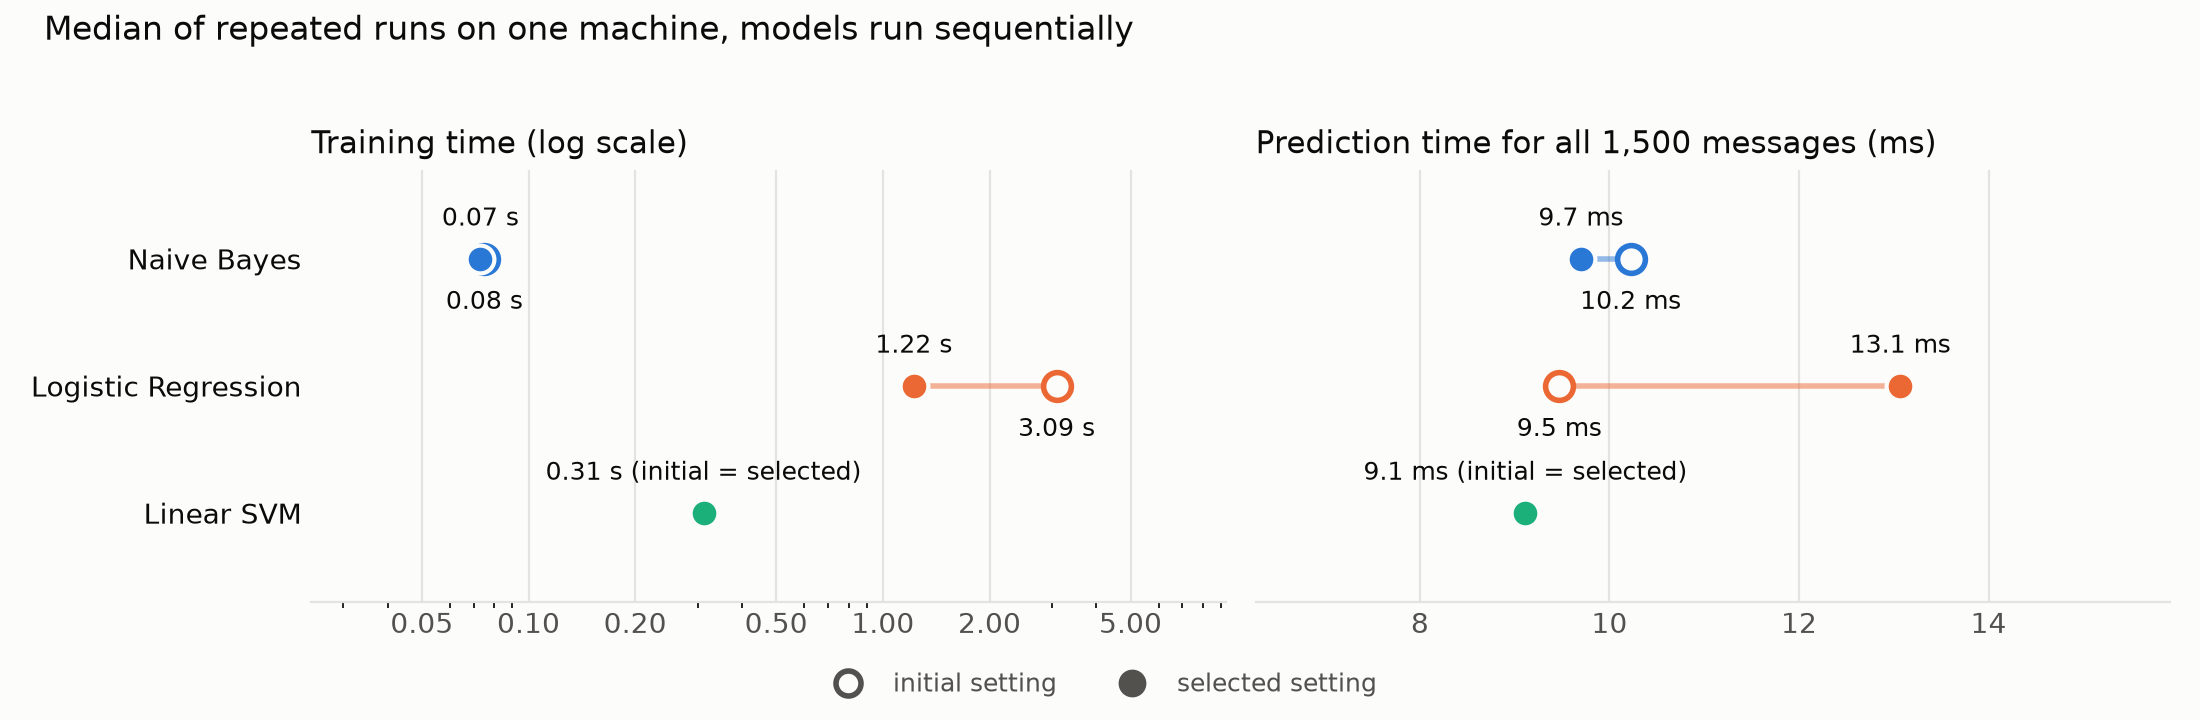
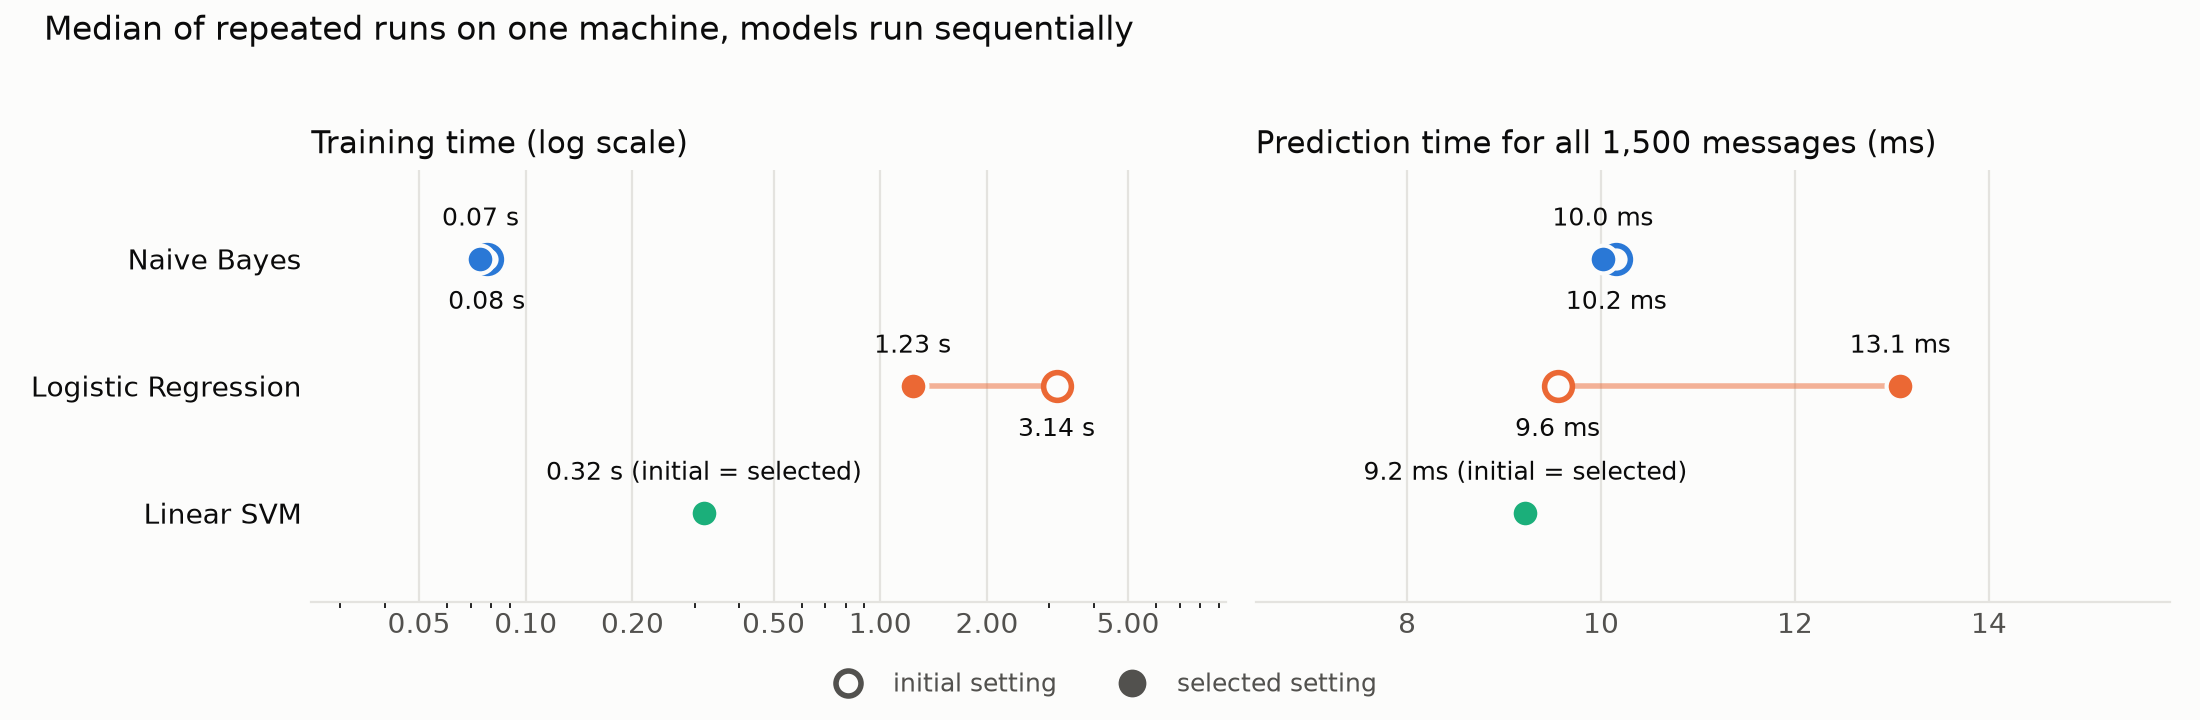
Regenerate comparison report and update contribution file

diff --git a/results/MODEL_COMPARISON.md b/results/MODEL_COMPARISON.md
@@ -5,15 +5,25 @@ and run on the validation split only. The official test set was not evaluated.
[1 lines of base64/hex data omitted]
 Training rows: 8499, validation rows: 1500.
 
+## Models
+
+| Model | Implementation | Learned from |
+| --- | --- | --- |
+| Naive Bayes | TF-IDF + MultinomialNB (scikit-learn) | our training split, no pretrained weights |
+| Logistic Regression | TF-IDF + LogisticRegression (scikit-learn) | our training split, no pretrained weights |
+| Linear SVM | TF-IDF + LinearSVC (scikit-learn) | our training split, no pretrained weights |
+
+All three are the vanilla course methods used as baselines. The selected settings are tuned versions of the same baselines, not new methods. We use scikit-learn implementations: the algorithms are not coded from scratch, but all parameters are learned from our own training data.
+
 ## Results
 
-| Model | Stage | Settings | Accuracy | Macro F1 | Fit (s) | Predict (s) | Predict (ms/msg) |
-| --- | --- | --- | ---: | ---: | ---: | ---: | ---: |
-| Naive Bayes | initial | alpha=1 | 81.60% | 0.7872 | 0.08 | 0.0102 | 0.007 |
-| Naive Bayes | selected | alpha=0.05 | 86.20% | 0.8529 | 0.07 | 0.0097 | 0.006 |
-| Logistic Regression | initial | lbfgs, C=1 | 85.80% | 0.8555 | 3.09 | 0.0095 | 0.006 |
-| Logistic Regression | selected | liblinear-ovr, C=100 | 89.07% | 0.8920 | 1.22 | 0.0131 | 0.009 |
-| Linear SVM | initial = selected | squared_hinge, C=1 | 89.20% | 0.8935 | 0.31 | 0.0091 | 0.006 |
+| Model | Stage | Settings | Accuracy | Macro F1 | Fit (s) | Predict (s) | Predict (ms/msg) | Converged |
+| --- | --- | --- | ---: | ---: | ---: | ---: | ---: | :---: |
+| Naive Bayes | initial | alpha=1 | 81.60% | 0.7872 | 0.08 | 0.0102 | 0.007 | n/a |
+| Naive Bayes | selected | alpha=0.05 | 86.20% | 0.8529 | 0.07 | 0.0100 | 0.007 | n/a |
+| Logistic Regression | initial | lbfgs, C=1 | 85.80% | 0.8555 | 3.14 | 0.0096 | 0.006 | yes |
+| Logistic Regression | selected | liblinear-ovr, C=100 | 89.07% | 0.8920 | 1.23 | 0.0131 | 0.009 | yes |
+| Linear SVM | initial = selected | squared_hinge, C=1 | 89.20% | 0.8935 | 0.32 | 0.0092 | 0.006 | yes |
 
 Times are medians of 3 repeats on one machine, models run sequentially. Fit includes TF-IDF fitting; predict includes the TF-IDF transform. Absolute times depend on the machine and are only comparable within this table.
 
@@ -23,7 +33,7 @@ Initial and selected settings are shown separately. The initial settings are the
 
 The task has 77 categories and every one matters equally for a bank: a rare request type (for example a swallowed card) is as important to route correctly as a frequent one. Macro F1 averages the per-category F1 with equal weight, so a model cannot hide poor performance on small categories behind good performance on large ones. Accuracy counts every message equally, so it favours frequent categories; it is reported next to macro F1 as a supporting metric.
 
-Category sizes are not equal: in training, from 30 messages (`contactless_not_working`) to 159 (`card_payment_fee_charged`); in validation, from 5 to 28.
+Category sizes are not equal: in training, from 30 messages (`contactless_not_working`) to 159 (`card_payment_fee_charged`); in validation, from 5 to 28. The official test set is balanced (40 messages in every category), so accuracy and macro F1 are expected to be closer there. We still rank by macro F1 because the reason for choosing it, equal importance of every category, does not depend on the split.
 
 ## Paired comparison of the selected settings
 
@@ -32,6 +42,25 @@ Score differences between models are small, so each pair is compared on the same
 - Logistic Regression vs Naive Bayes: 84 messages fixed, 41 broken (exact McNemar p = 0.00015); macro F1 difference +0.0391, paired bootstrap 95% interval [+0.0226, +0.0589] (the interval excludes 0).
 - Linear SVM vs Naive Bayes: 87 messages fixed, 42 broken (exact McNemar p = 9.2e-05); macro F1 difference +0.0406, paired bootstrap 95% interval [+0.0235, +0.0607] (the interval excludes 0).
 - Linear SVM vs Logistic Regression: 13 messages fixed, 11 broken (exact McNemar p = 0.84); macro F1 difference +0.0015, paired bootstrap 95% interval [-0.0060, +0.0089] (the interval includes 0).
+
+## Sensitivity to near-duplicate messages
+
+Some validation messages are near-copies of training messages (reordered sentences, one added word). They are mostly easy and keep the same label, so they can raise the scores slightly. We did not change the split; instead the scores are recomputed without those messages.
+
+Method: max cosine similarity of character 3-5-gram TF-IDF (fitted on train) to any training message; validation messages at or above the threshold are removed. Macro F1 in the reduced sets uses only the categories that remain.
+
+| Threshold | Removed | Model | Setting | Accuracy (all → reduced) | Macro F1 (all → reduced) |
+| --- | ---: | --- | --- | ---: | ---: |
+| ≥ 0.95 | 63 (4.2%) | Naive Bayes | alpha=1 | 81.60% → 81.14% | 0.7872 → 0.7831 |
+|  |  | Naive Bayes | alpha=0.05 | 86.20% → 85.73% | 0.8529 → 0.8478 |
+|  |  | Logistic Regression | lbfgs, C=1 | 85.80% → 85.32% | 0.8555 → 0.8510 |
+|  |  | Logistic Regression | liblinear-ovr, C=100 | 89.07% → 88.66% | 0.8920 → 0.8883 |
+|  |  | Linear SVM | squared_hinge, C=1 | 89.20% → 88.80% | 0.8935 → 0.8896 |
+| ≥ 0.90 | 148 (9.9%) | Naive Bayes | alpha=1 | 81.60% → 80.33% | 0.7872 → 0.7760 |
+|  |  | Naive Bayes | alpha=0.05 | 86.20% → 85.06% | 0.8529 → 0.8417 |
+|  |  | Logistic Regression | lbfgs, C=1 | 85.80% → 84.62% | 0.8555 → 0.8442 |
+|  |  | Logistic Regression | liblinear-ovr, C=100 | 89.07% → 87.94% | 0.8920 → 0.8827 |
+|  |  | Linear SVM | squared_hinge, C=1 | 89.20% → 88.09% | 0.8935 → 0.8840 |
 
 ## Most confused category pairs (selected settings)
 
@@ -92,3 +121,4 @@ Models disagree:
 - One validation split of 1,500 messages; scores are not final test results.
 - Final test numbers will be produced by the model owners after the shared feature setting is fixed.
 - Timings come from one machine and are not a general speed claim.
+- Near-duplicate detection is a similarity heuristic with an arbitrary threshold, not a proof of leakage.

diff --git a/contributions/OZAN_SERHAN_DENIZHAN_220911758_serhandenizhan.md b/contributions/OZAN_SERHAN_DENIZHAN_220911758_serhandenizhan.md
@@ -15,9 +15,15 @@ Responsibility: Person 5 — shared evaluation: benchmark script, comparison tab
   reported with an uncertainty statement instead of being read as a ranking.
 - `src/banking77/plot_comparison.py`: figures for scores (initial vs selected), fit/prediction time and
   the most confused category pairs.
-- `tests/test_benchmark_models.py`: 8 unit tests (agreed settings, validation-only use, median timing,
-  rejection of changed scores or datasets, McNemar counts, macro F1 against scikit-learn, seeded bootstrap,
-  error example selection). The full suite has 29 passing tests.
+- Consistency checks in the benchmark: identical prepared data files (per-file SHA-256) across all runs,
+  and the convergence status of LR and SVM is reported in the table.
+- Near-duplicate sensitivity: validation scores are recomputed without validation messages that are
+  near-copies of training messages (character n-gram TF-IDF cosine >= 0.95 and >= 0.90). The split was not
+  changed; the model ordering is unchanged and the scores drop by about 0.4 to 0.5 points at 0.95.
+- `tests/test_benchmark_models.py`: 12 unit tests (agreed settings, validation-only use, median timing,
+  rejection of changed scores or datasets or data files, convergence reporting, McNemar counts, macro F1
+  against scikit-learn, seeded bootstrap, near-duplicate similarity, subset scores, error example selection).
+  The full suite has 33 passing tests.
 - `results/MODEL_COMPARISON.md`, `results/model_comparison_validation.json`, `results/figures/*.png`:
   generated report with the comparison table, the macro F1 justification, most confused pairs and real
   example errors.
